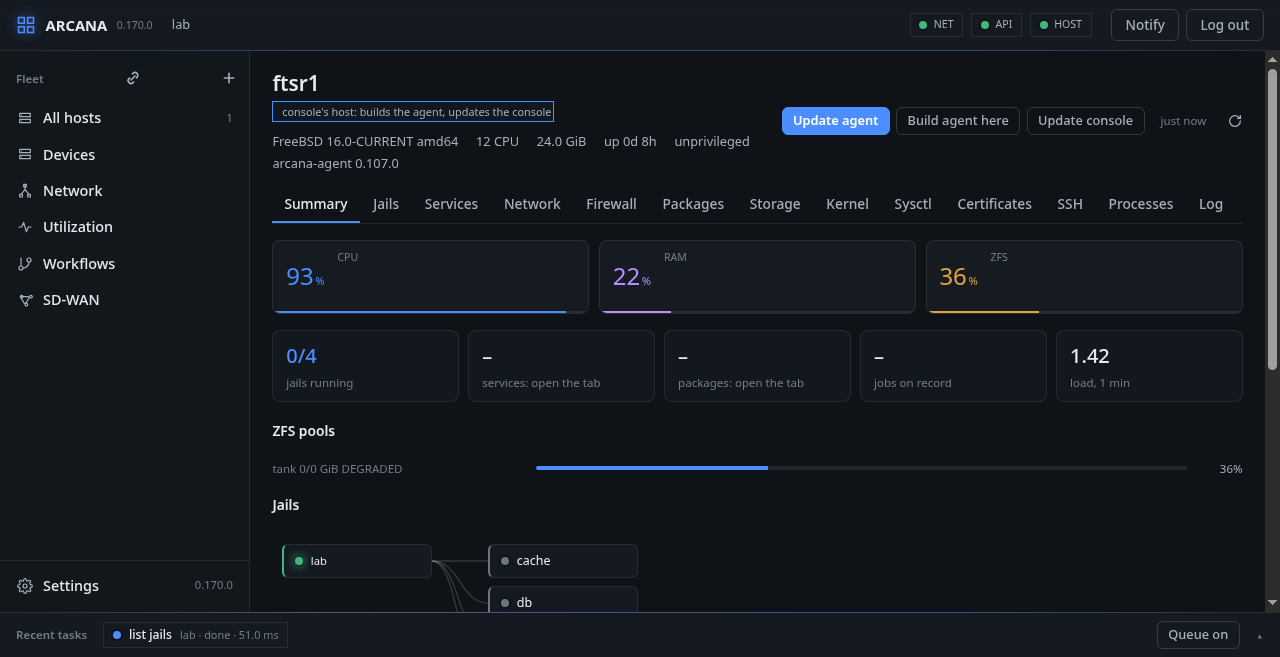
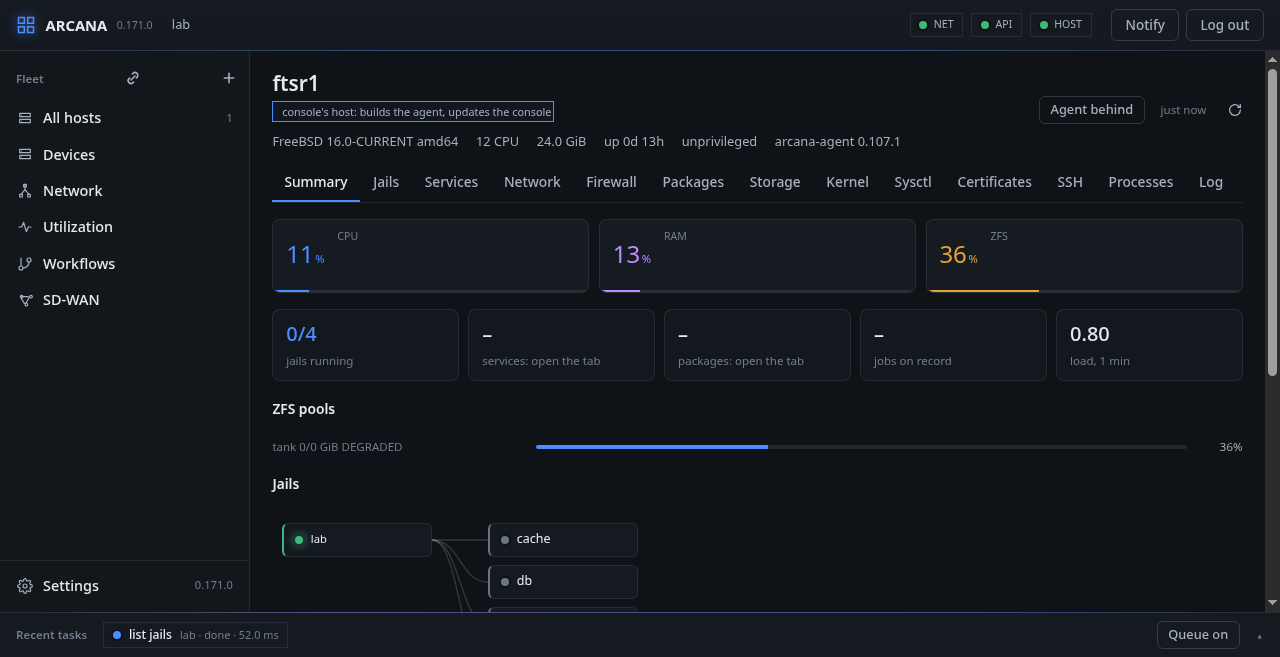
Updating from one place, and write API tokens
Console 0.171.0 moves updating off each host's bar. Settings has an
Update tab: the console's version and repository, Update console,
Build the agent only, and what an update brings; and the agents, with
Update N agents. Devices marks a host whose agent is behind, with
Update beside its version and Build in its row. A host's bar says
Agent behind and leads there. Settings, the panel, the tour and the
updating chapter say so, with two new pictures and the host's taken
again.

API tokens are read or write now. A write token (arcw_) does what a
signed-in user does, audited under its name; neither kind reaches the
console's settings, sign-in, push or enrolment, and a write token may
not change the tokens or the CA. The tokens section, the jobs and
capture notes, the SD-WAN conformance row and the data directory's
list say so, with a picture of a write token made.

What's new: the agent's log clone is fetched from the repository named
now (agent 0.107.2), so a repository moved to another server is read.

diff --git a/src/sections/settings.md b/src/sections/settings.md
@@ -64,14 +64,31 @@ from.
 
 ## API tokens
 
-Read-only tokens for a program to look at the hosts through the API
-without a passkey, sent as `Authorization: Bearer arcr_…`. One is made
-with a name and its value is shown that once; the console keeps only
-its SHA-256, and when it was last used. It reads whatever the API
-tells (the hosts, the workflows and their runs, SD-WAN, transfers) and
-nothing else: it changes nothing, and does not read the console's
-settings, sign-in, push or enrolment. Deleted, it opens nothing at
-once.
+Bearer tokens for a program to use the console through the API
+without a passkey. One is made with a name and a kind, chosen beside
+the name, and its value is shown that once; the console keeps only its
+SHA-256 in `tokens.json`, with its kind and when it was last used. The
+list marks each **read** or **write**.
+
+- A **read** token (**Reads**, sent as `Authorization: Bearer arcr_…`)
+  reads whatever the API tells: the hosts, the workflows and their
+  runs, SD-WAN, transfers. It changes nothing.
+- A **write** token (**Reads and writes**, `Authorization: Bearer
+  arcw_…`) also changes things, as a signed-in user does: jobs on the
+  hosts, updates of the agents and of the console. It needs none of a
+  session's `X-Arcana` and `Origin` checks, since a browser never sends
+  a bearer token by itself. What it does is audited under
+  `API token <name>`.
+
+Neither kind reads or changes the console's settings, sign-in, push or
+enrolment, and a write token may not change the tokens or the CA
+(`403`, "an API token may not change this"): a token cannot make
+another, add a passkey, or change the repository that is built as
+root. `POST /api/tokens` takes `{"name", "kind": "read"|"write"}`, a
+read token unless said; `GET /api/tokens` lists each with its `kind`.
+Deleted, a token opens nothing at once.
+
+![A write token, made](../img/set-token-write.png)
 
 Beside the value, while it is shown, a **QR code** for the Arcana app on
 Android: `arcana://token?console=<the console's address>&token=<token>`.
@@ -98,6 +115,27 @@ default); changed, they hold for the sign-ins there are as well.
 
 Whoever can sign in can set the repository, and so decides what is
 built and sent to every host as root.
+
+## Update
+
+Updating Arcana in one place.
+
+**Console**: the version running and the repository it is updated
+from, with what an update brings (as **What's new** reads it). **Update
+console** has the agent on the console's own host (the one reached by
+a local socket) clone the repository, build all of Arcana as `nobody`,
+install it as root and restart the console; the page reconnects by
+itself. **Build the agent only** builds `arcana-agent` there without
+installing anything, for the console to send to the hosts. **Read the
+repository again** reads what is new afresh, not from the five
+minutes' copy.
+
+**Agents**: the `arcana-agent` the console sends, how many hosts run
+another build, and **Update N agents** to send it to all of them.
+**Devices** has each host's agent, with **Update** and **Build** in its
+row.
+
+![Settings, Update](../img/set-update.png)
 
 ## Certificate authority
 
@@ -158,7 +196,8 @@ and all are read once, at the start.
 
 What the repository the console builds from (`agent_source`) has, read
 by the host the console runs on (a bare clone without the files, kept
-in its build directory) and kept five minutes: the release notes, where
+in its build directory and fetched each time from the repository named
+now, so a repository moved to another server is read from there) and kept five minutes: the release notes, where
 the repository's tags carry messages, else the commit messages, newest
 first. Above the version running is what an update brings, the
 version's own commit marked; below it, what this console has. The

diff --git a/src/install/updating.md b/src/install/updating.md
@@ -3,8 +3,10 @@
 The console asks GitHub's release feed every six hours and shows a
 banner when a newer version is out (`update_check = false` in
 `web.conf` turns that off). The box that opens from the banner, and
-from **Update agent** and **Update console**, lists what is new: the
-release notes, or the commit messages where there are none.
+from **Update** on **Devices** and **Update console** in **Settings**,
+lists what is new: the release notes, or the commit messages where
+there are none. **Settings**, **Update** gathers both: the console's
+update and the agents'.
 
 ## The console
 
@@ -13,20 +15,20 @@ The console runs unprivileged and does not replace itself:
 - **natively**, update with `pkg upgrade arcana` or `make install` from
   a newer tree, then `service arcana_console restart`;
 - **in a container**, `podman auto-update` pulls the newer image;
-- **from its repository**: with `agent_source` set in **Settings**, the
-  page of the console's own host has **Update console**. The agent
-  there builds all of Arcana as `nobody`, installs it as root, and
-  restarts the console and then itself. The page reconnects by itself,
-  still signed in.
+- **from its repository**: with `agent_source` set in **Settings**,
+  **Settings**, **Update** has **Update console**. The agent on the
+  console's own host builds all of Arcana as `nobody`, installs it as
+  root, and restarts the console and then itself. The page reconnects
+  by itself, still signed in.
 
 The page and the installed app take a newer version by themselves the
 next time they come into view.
 
 ## The agents
 
-The console marks every host whose agent is not the build it has, and
-**Update agent** (on the host's page) or **Update N agents** (on the
-fleet's) sends it. Builds are told apart by their SHA-256, so a rebuild
+The console marks every host whose agent is not the build it has, on
+**Devices**: **Update** in its row, or **Update N agents** at the top
+(also on the fleet's page and in **Settings**, **Update**), sends it. Builds are told apart by their SHA-256, so a rebuild
 of the same version counts as another. Each host
 
 1. checks the program against the SHA-256 sent with it,
@@ -35,8 +37,9 @@ of the same version counts as another. Each host
 3. puts it in place of the old one, kept as `arcana-agent.old`, and
    restarts its service.
 
-A host can also **Build agent here** from the repository named in
-**Settings**, and the console then sends that build to the others.
+A host can also **Build** (its row on **Devices**) from the repository
+named in **Settings**, and the console then sends that build to the
+others.
 Hosts that differ from the console's machine (another architecture or
 FreeBSD version) are updated with `pkg upgrade arcana` instead, which
 their Packages tab can do.

diff --git a/src/sections/panel.md b/src/sections/panel.md
@@ -45,10 +45,9 @@ agent answering, or one whose socket the console's user may not use.
 Taken off the list, the host is not added again; `local_agent` in
 `web.conf` names another socket, or none.
 
-That host wears a **console's host** label on its page:
-besides what every agent does, it builds `arcana-agent` from the
-repository for every host (**Build agent here**), and **Update
-console** builds and installs the console itself there.
+That host wears a **console's host** label on its page. It builds and
+installs the console when **Settings**, **Update** asks.
+
 
 ## Devices
 
@@ -57,6 +56,15 @@ state, its agent's version, the release of FreeBSD it runs, its jails
 running and known, and its CPU, memory and ZFS use now. It sorts by any
 column and is narrowed by the filter, like every table; a row opens its
 host, and **×** takes a host off the console's list.
+
+The agents are updated here. A host whose agent is not the build the
+console sends has its version marked and an **Update** beside it;
+**Update N agents**, at the top, sends it to every such host at once.
+**Build** has a host build `arcana-agent` from the repository named in
+**Settings**, without installing it; the console keeps the program and
+offers it to the others.
+
+![Devices, one agent behind](../img/devices-update.png)
 
 ## All hosts
 

diff --git a/src/sdwan/conformance.md b/src/sdwan/conformance.md
@@ -103,7 +103,7 @@ is logged to the record).
 | R13–R15 Authentication requests logged | no | A WireGuard handshake is not logged as a request. |
 | R20, R38 At least one Role | yes | An identity's zone. |
 | R21, R33–R37 A unique Actor ID | partly | An identity's name, unique at its remote end point. |
-| R41–R43 System Administrator alone changes Policies | yes | The console's users; an API token reads only. |
+| R41–R43 System Administrator alone changes Policies | yes | The console's users, and the write API tokens they make, audited by name; a read token reads only. |
 | R44–R60 Device and Application Actors | no | Only User Actors (identities) and a UNI's hosts by zone. |
 | R61–R63 PIP, PDP, PEP | yes | The console (information and decision), the edges (enforcement). |
 | R64 Allow or Block | yes | The policy map, Block where no Policy is. |

diff --git a/src/tour/fleet.md b/src/tour/fleet.md
@@ -33,10 +33,10 @@ a row of tabs.
 The header says what the host is: its name, FreeBSD's version and
 machine, its CPUs and memory, how long it has been up, and the agent's
 version. The host the console runs on carries the **console's host**
-label: it also builds the agent for the others
-(**Build agent here**) and updates the console itself (**Update
-console**). **Update agent** appears when a host runs another build than
-the one the console has.
+label. When a host runs another build of the agent than the console
+has, its header says **Agent behind**, which leads to **Devices**, where
+the agents are updated; the console itself is updated in **Settings**,
+**Update**.
 
 **Summary** gathers the rest at a glance: CPU, memory and ZFS as they
 are now, with a short history; counts of jails, services, packages and

diff --git a/src/ops/index.md b/src/ops/index.md
@@ -12,7 +12,7 @@ user alone:
 | `credentials.json` | the security keys and passkeys that may sign in |
 | `servers.json` | the hosts, where each is reached, each host's rollback timer |
 | `settings.json` | what Settings changed over `web.conf` |
-| `tokens.json` | the read-only API tokens, as their SHA-256 |
+| `tokens.json` | the API tokens, read or write, as their SHA-256 |
 | `push.json`, `vapid.pem` | the devices told of what ends, and the key the console signs with |
 | `workflows.json`, `runs.json`, `runs/`, `every.json` | the workflows, their last runs and traces, when each last ran by its interval |
 | `sdwan.json`, `sdwan-state.json`, `sdwan-lists.json` | the SD-WAN services, what was made on the edges, the lists and feeds |

diff --git a/src/automation/jobs.md b/src/automation/jobs.md
@@ -44,9 +44,9 @@ curl -s -b cookie -H 'Content-Type: application/json' \
 
 answers with each job's id; `GET /api/servers/<id>/jobs/<n>` is its
 state and trace, and reading it is what confirms a safe change. Changes
-need a signed-in session; a read-only **API token** (Settings → API
-tokens, sent as `Authorization: Bearer arcr_…`) reads everything the
-API tells and changes nothing. See [The HTTP API](../reference/api.md).
+need a signed-in session or a write **API token** (Settings → API
+tokens, `Authorization: Bearer arcw_…`, audited by its name); a read
+token (`arcr_…`) reads everything the API tells and changes nothing. See [The HTTP API](../reference/api.md).
 
 ## From a shell
 

diff --git a/src/sections/network.md b/src/sections/network.md
@@ -194,8 +194,8 @@ boot. **×** on a row takes one away (`arp -d`, `ndp -d`), and out of
 **FreeBSD:** a tap per rule is FreeBSD 16's; `tcpdump -D` lists the
 sources there are. Capturing in a jail's own network needs `bpf(4)`
 inside the jail: its devfs ruleset has to unhide it. Since a capture
-shows what was on the wire, a read-only API token cannot make one;
-only a signed-in session can.
+shows what was on the wire, a read API token cannot make one; a
+signed-in session or a write token can.
 
 ## CARP: an address shared between hosts
 
